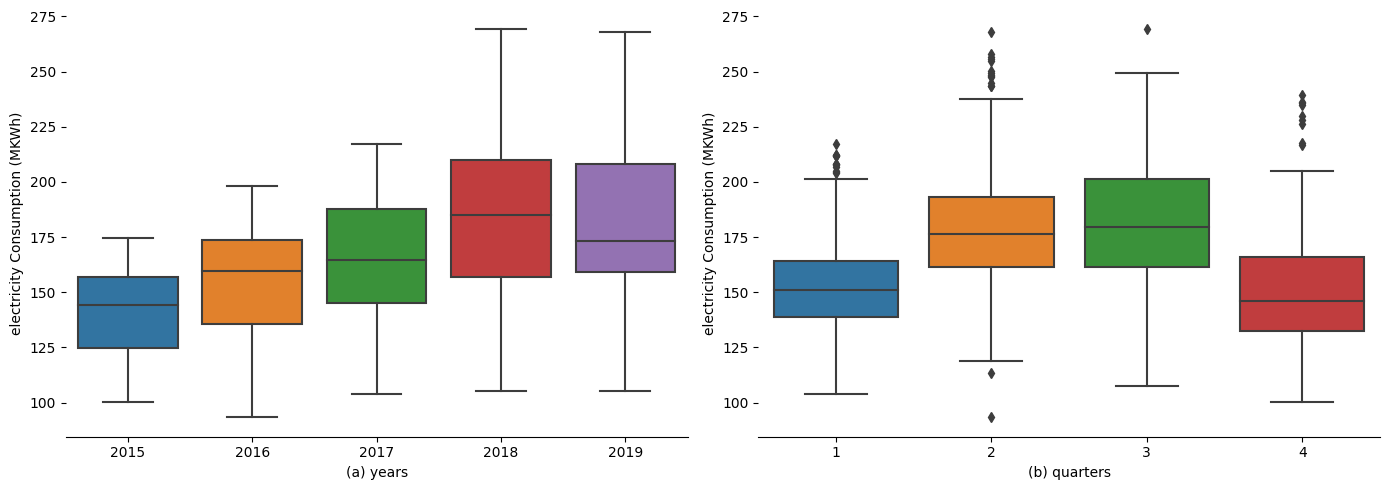
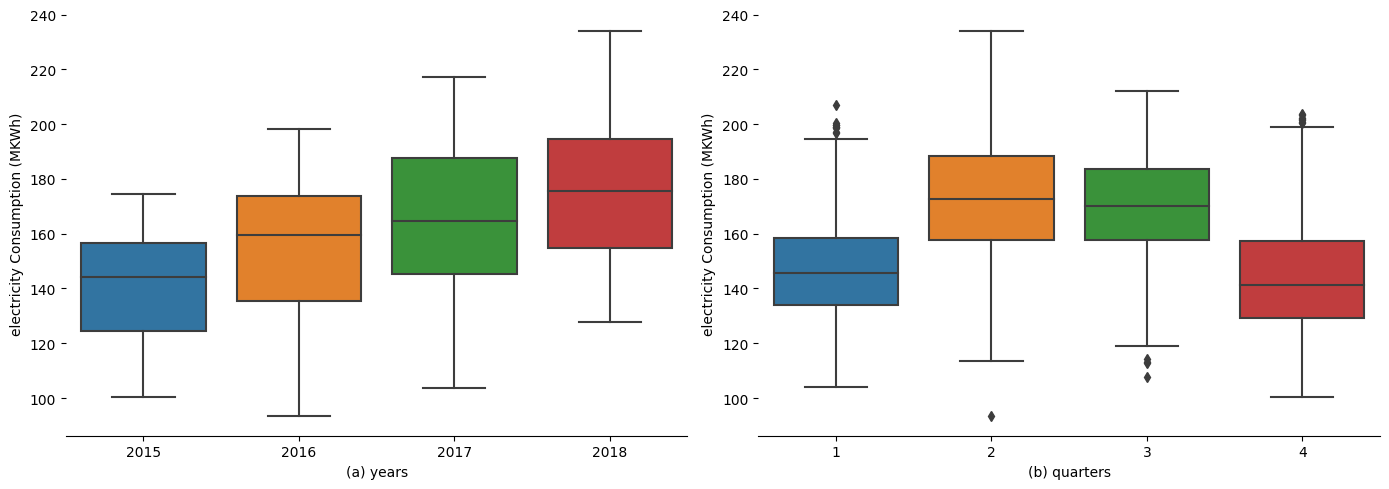
plotting with new dataset

diff --git a/src/plotting.py b/src/plotting.py
@@ -4,43 +4,43 @@ import seaborn as sns
 
 
 # open the csv, chose company_N, where N = {A, B, C or D}
-df = pd.read_csv('../csv_files/main_dataset.csv')
+df = pd.read_csv('../csv_files/main_dataset_lstm_2.csv')
 print(df.head())
 #for box plots
-df['date'] = pd.to_datetime(df['date'])
+df['timestamp'] = pd.to_datetime(df['timestamp'])
 df['total_energy'] = pd.to_numeric(df['total_energy'], errors='coerce')
 df = df.dropna(subset=['total_energy'])
-df['year'] = df['date'].apply(lambda x: x.year)
-df['quarter'] = df['date'].apply(lambda x: x.quarter)
-df['month'] = df['date'].apply(lambda x: x.month)
-df['day'] = df['date'].apply(lambda x: x.day)
-df=df.loc[:,['date','total_energy', 'year','quarter','month','day']]
-df.sort_values('date', inplace=True, ascending=True)
+df['year'] = df['timestamp'].apply(lambda x: x.year)
+df['quarter'] = df['timestamp'].apply(lambda x: x.quarter)
+df['month'] = df['timestamp'].apply(lambda x: x.month)
+df['day'] = df['timestamp'].apply(lambda x: x.day)
+df = df.loc[:, ['timestamp', 'total_energy', 'year', 'quarter', 'month', 'day']]
+df.sort_values('timestamp', inplace=True, ascending=True)
 df = df.reset_index(drop=True)
-df['weekday'] = pd.to_datetime(df['date']).dt.dayofweek  # monday = 0, sunday = 6
-df['weekend_indi'] = 0          # Initialize the column with default value of 0
+df['weekday'] = pd.to_datetime(df['timestamp']).dt.dayofweek  # monday = 0, sunday = 6
+df['weekend_indi'] = 0  # Initialize the column with default value of 0
 df.loc[df['weekday'].isin([4, 5]), 'weekend_indi'] = 1  # 5 and 6 correspond to Sat and Sun
 print(df.shape)
-print(df.date.min())
-print(df.date.max())
+print(df.timestamp.min())
+print(df.timestamp.max())
 print(df.tail(5))
 
-plt.figure(figsize=(14,5))
-plt.subplot(1,2,1)
+plt.figure(figsize=(14, 5))
+plt.subplot(1, 2, 1)
 plt.subplots_adjust(wspace=0.2)
 sns.boxplot(x="year", y="total_energy", data=df)
-plt.xlabel('(a) Years')
-plt.ylabel('Consumption (MkWh)')
+plt.xlabel('(a) years')
+plt.ylabel('electricity Consumption (MKWh)')
 sns.despine(left=True)
 plt.tight_layout()
 
-plt.subplot(1,2,2)
+plt.subplot(1, 2, 2)
 sns.boxplot(x="quarter", y="total_energy", data=df)
-plt.xlabel('(b) Quarters')
-plt.ylabel('Consumption (MkWh)')
+plt.xlabel('(b) quarters')
+plt.ylabel('electricity Consumption (MKWh)')
 sns.despine(left=True)
 plt.tight_layout()
-plt.savefig('yearly_quarterly.png', bbox_inches='tight')
+plt.savefig('../assets_lstm_2/yearly_quarterly_new.png', bbox_inches='tight')
 plt.show()
 
 # dic={0:'Weekend',1:'Weekday'}
@@ -163,24 +163,24 @@ plt.show()
 # plt.savefig('weekday_plot.pdf', bbox_inches='tight')
 # plt.show()
 
-##temp and gas scatter plot
-# plt.figure(figsize=(14,5))
-# plt.subplot(1,2,1)
+# temp and gas scatter plot
+# plt.figure(figsize=(14, 5))
+# plt.subplot(1, 2, 1)
 # plt.subplots_adjust(wspace=0.2)
 # energy = df['total_energy']
 # max_temp = df['max_temp']
 # total_gas = df['total_gas']
 # plt.scatter(max_temp, energy, edgecolors='r')
-# plt.xlabel('(a) Temperature (Celsius)')
-# plt.ylabel('Consumption (MkWh)')
+# plt.xlabel('(a) temperature (celsius)')
+# plt.ylabel('electricity Consumption (MKWh)')
 # sns.despine(left=True)
 # plt.tight_layout()
 #
-# plt.subplot(1,2,2)
+# plt.subplot(1, 2, 2)
 # plt.scatter(total_gas, energy, edgecolors='r')
-# plt.xlabel('(b) Gas Supplied (MMCFD)')
-# plt.ylabel('Consumption (MkWh)')
+# plt.xlabel('(b) gas supplied (MMCFD)')
+# plt.ylabel('electricity Consumption (MKWh)')
 # sns.despine(left=True)
 # plt.tight_layout()
-# plt.savefig('scatter_temp_gas.png', bbox_inches='tight')
+# plt.savefig('../assets_lstm_2/scatter_temp_gas_new.png', bbox_inches='tight')
 # plt.show()
